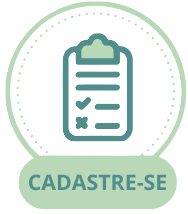
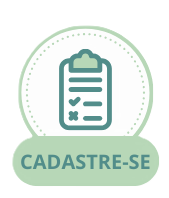
Adição de efeitos ao passar o mouse e retirada barra de menu acima

diff --git a/styles/home.css b/styles/home.css
@@ -7,27 +7,44 @@
     position: relative;
 }
 
+.div-icons:hover{
+    filter: brightness(105%);
+    top: -2px;
+}
+
 .div-icons img{
-    margin-top: 70%;
-    width: 10rem;
+    margin-top: 90%;
+    width: 9rem;
 }
 
 .img-cadastro{
     margin-top: 10%;
-    max-width: 10rem;
+    width: 9rem;
     position: relative;
+}
+
+
+.img-cadastro:hover{
+    top: -2px;
+    filter: brightness(105%);
 }
 
 .img-entre{
     margin-top: 10%;
-    max-width: 10rem;
+    max-width: 9rem;
     position: relative;
+}
+
+.img-entre:hover{
+    filter: brightness(105%);
+    top: -2px;
 }
 
 .div-menu{
     position: relative;
-    margin-left: 8.3%;
+    margin-left:9.5%;
     height: 100vh;
+    max-width: 14.4%;
 }
 
 .div-menu::before {
@@ -40,7 +57,7 @@
   }
 
 h2{
-    padding-top: 5rem;
+    padding-top: 3rem;
 }
 
 li{
@@ -55,6 +72,12 @@ li img{
     margin-top: -7rem;
     width: 80%;
 }
+
+li:hover{
+    top: -4px;
+    filter: brightness(105%);
+}
+
 
 .div-separator{
     background: var(--green-dark);

diff --git a/home.html b/home.html
@@ -23,7 +23,7 @@
 <body>
     <div class="content container w-100 text-center">
         <header>
-            <div class="row header">
+            <div class="row">
                 <div class="col-10 text-left">
                     <img class="logo" src="assets/logotipo-yummy.png" alt="Yummy Cupcake Logo">
                 </div>
@@ -63,7 +63,7 @@
                                 <li class="col-3">
                                     <img class="img-cupcakes" src="/assets/cupcake-vermelho.png">
                                     <h3>BlueVelvet</h3>
-                                    <span>Lorem ipsum dolor sit amet consectetur adipisicing elit</span>
+                                    <span>Tem sabor de cream cheese, levemente ácido, e pedaços de bolo.</span>
                                     <p>R$6,00</p>
                                 </li>
                                 <li class="col-3">

diff --git a/styles/global.css b/styles/global.css
@@ -15,13 +15,15 @@ html{
     --background: #F8F8F8;
     --purple-light: #635357;
     --green-shadow:#316148;
+    --white-light:#fef9db;
+    --blue-background:#badef4;
 
     font-size: 62.5%;
 }
 
 body{
     min-height: 100vh;
-    background-image: linear-gradient(to bottom right, var(--background), var(--green-dark));
+    background-image: linear-gradient(to bottom right, var(--blue-background), var(--green-dark));
 }
 
 body, button, input {
@@ -32,7 +34,7 @@ body, button, input {
 h2{
     font-size: 2.2rem;
     font-weight: 500;
-    color: var(--green-shadow);
+    color: var(--white-light);
 }
 
 .content{
@@ -49,9 +51,4 @@ h2{
     position: absolute;
     z-index: 2;
     box-shadow: 1px 1px 8px var(--green-shadow);
-}
-
-.header{
-    height: 10vh;
-    background-color: var(--green-dark);
 }
